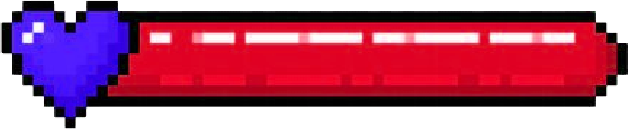
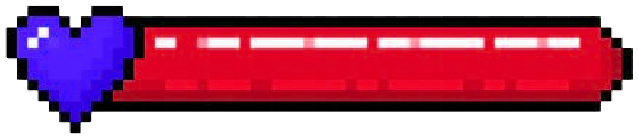
lifeBar added

diff --git a/js/main.js b/js/main.js
@@ -20,7 +20,7 @@ let musicGameOverNode = endScreenNode.querySelector("#game-over-audio");
 let musicGameWinNode = endScreenNode.querySelector("#game-win-audio");
 let isSound = true
 let musicIntroGameNode = introScreenNode.querySelector("audio");
-
+let lifeBarNode = gameScreenNode.querySelector("#life-bar");
 //botones
 const startButtonNode = document.querySelector("#start-button");
 const ReStartButtonNode = document.querySelector("#restart-button");
@@ -156,6 +156,7 @@ function gameOver(){
   batArr = []
   crossArr = []
   musicGameButtonNode.src = "./resources/sound.png";
+  lifeBarNode.src = "./resources/life1.png";
 
   
   
@@ -320,13 +321,22 @@ function detectIfCollWithGarlic(){
           setTimeout(gameOver,2500);
           musicGameOverNode.play()
           mainCharacter.node.src = "../resources/mainCharDying3.gif"
+          
           gameBoxNode.removeEventListener("click",handleClickJump)
           window.removeEventListener("keydown", handleArrow)
           clearTimeout(afterJumpTimeOutId)
+          lifeBarNode.src = "../resources/life5.png"
           
-        } else if(mainCharacter.life > 0 && mainCharacter.points < 500){
+        } else if(mainCharacter.life > 0 && mainCharacter.points < pointsToWin){
           mainCharacter.life -= damage
           lifeNode.innerHTML = `LIFE : 0${mainCharacter.life}`
+          if(mainCharacter.life <= 75 && mainCharacter.life > 50){
+            lifeBarNode.src = "../resources/life2.png"
+          } else if (mainCharacter.life <= 50 && mainCharacter.life > 25) {
+            lifeBarNode.src = "../resources/life3.png"
+          } else if (mainCharacter.life <= 25){
+            lifeBarNode.src = "../resources/life4.png"
+          }
           garlicAudioNode.load()
           garlicAudioNode.play()
           mainCharacter.node.src = "../resources/mainCharDamaged.gif"
@@ -367,10 +377,19 @@ function detectIfCollWithCross(){
         gameBoxNode.removeEventListener("click",handleClickJump)
         window.removeEventListener("keydown", handleArrow)
         clearTimeout(afterJumpTimeOutId)
+        lifeBarNode.src = "../resources/life5.png"
+
         
-      } else if(mainCharacter.life > 0 && mainCharacter.points < 500){
+      } else if(mainCharacter.life > 0 && mainCharacter.points <  pointsToWin){
         mainCharacter.life -= damage
         lifeNode.innerHTML = `LIFE : 0${mainCharacter.life}`
+        if(mainCharacter.life <= 75 && mainCharacter.life > 50 ){
+          lifeBarNode.src = "../resources/life2.png"
+        } else if (mainCharacter.life <= 50 && mainCharacter.life > 25) {
+          lifeBarNode.src = "../resources/life3.png"
+        } else if (mainCharacter.life <= 25){
+          lifeBarNode.src = "../resources/life4.png"
+        }
         garlicAudioNode.play()
         mainCharacter.node.src = "../resources/mainCharDamaged.gif"
         setTimeout(()=>{

diff --git a/style.css b/style.css
@@ -86,7 +86,7 @@ body{
   
 }
 
-#info{
+#info, #info-graphic {
   display: flex;
   text-align: center;
   align-items: center;
@@ -94,6 +94,10 @@ body{
   justify-content: space-between;
   margin: auto;
  
+}
+#info-graphic img {
+  width: 250px;
+  padding-top: 15px;
 }
 
 #info p{

diff --git a/index.html b/index.html
@@ -40,6 +40,11 @@
     </div>
     
     <div id="game-box"></div>
+    <div id="info-graphic">
+      <img src="./resources/life1.png" alt="" id="life-bar">
+      <img src="" alt="">
+    </div>
+   
   </div>
   <!--END SCREEN-->
   <div id="end-screen" class="container">
